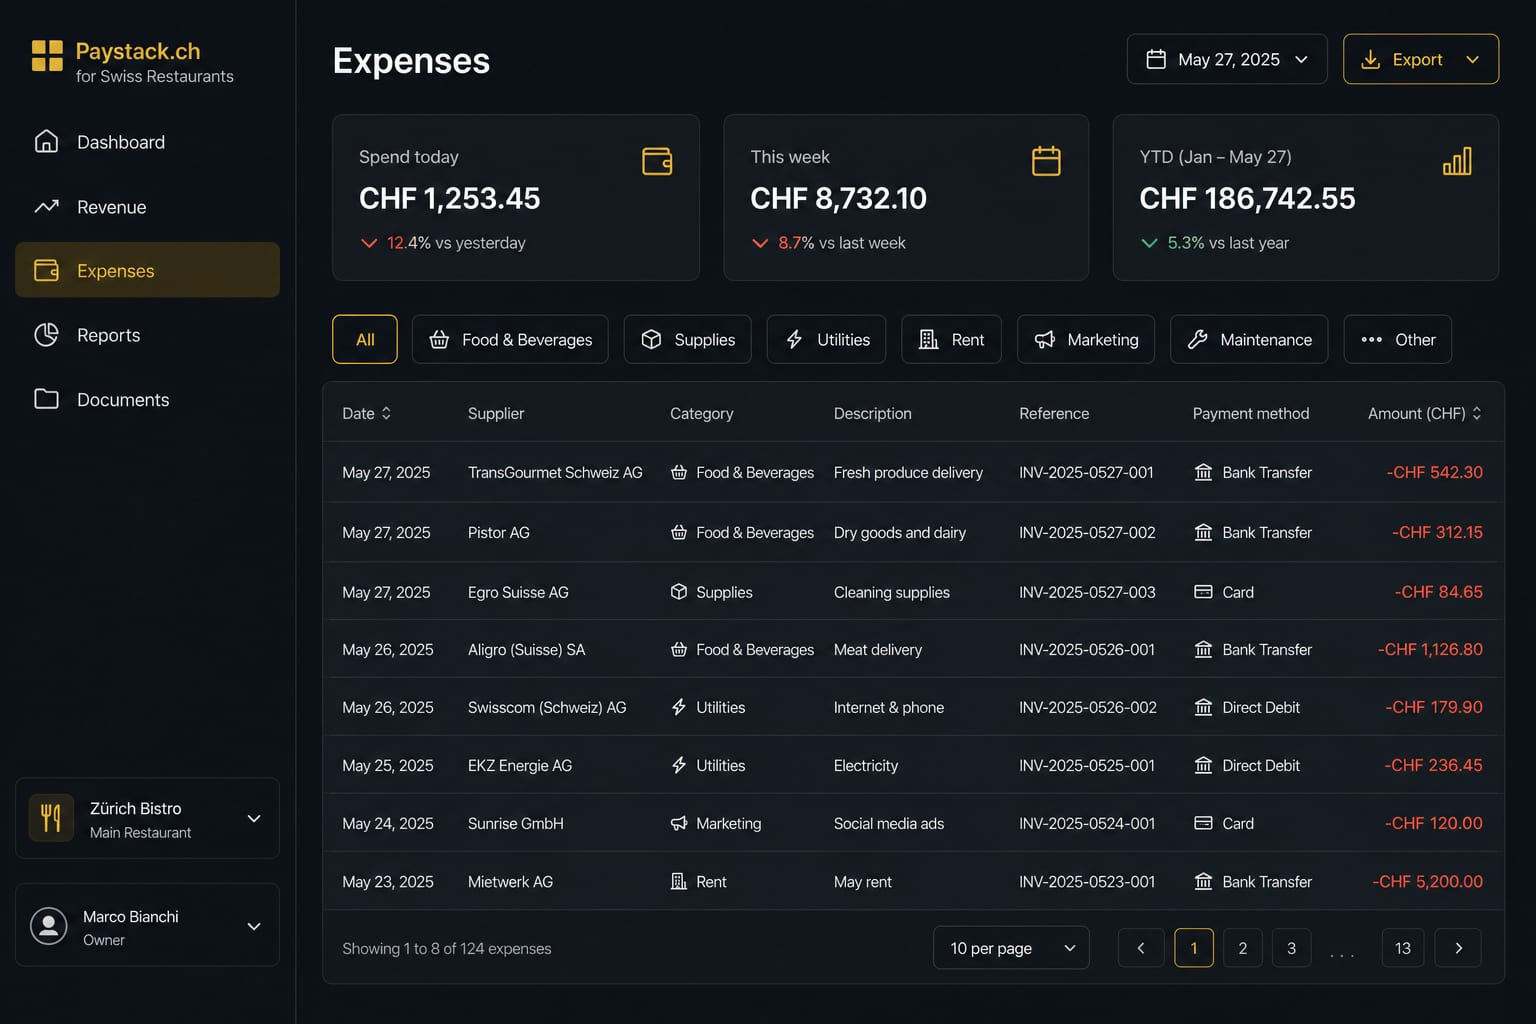
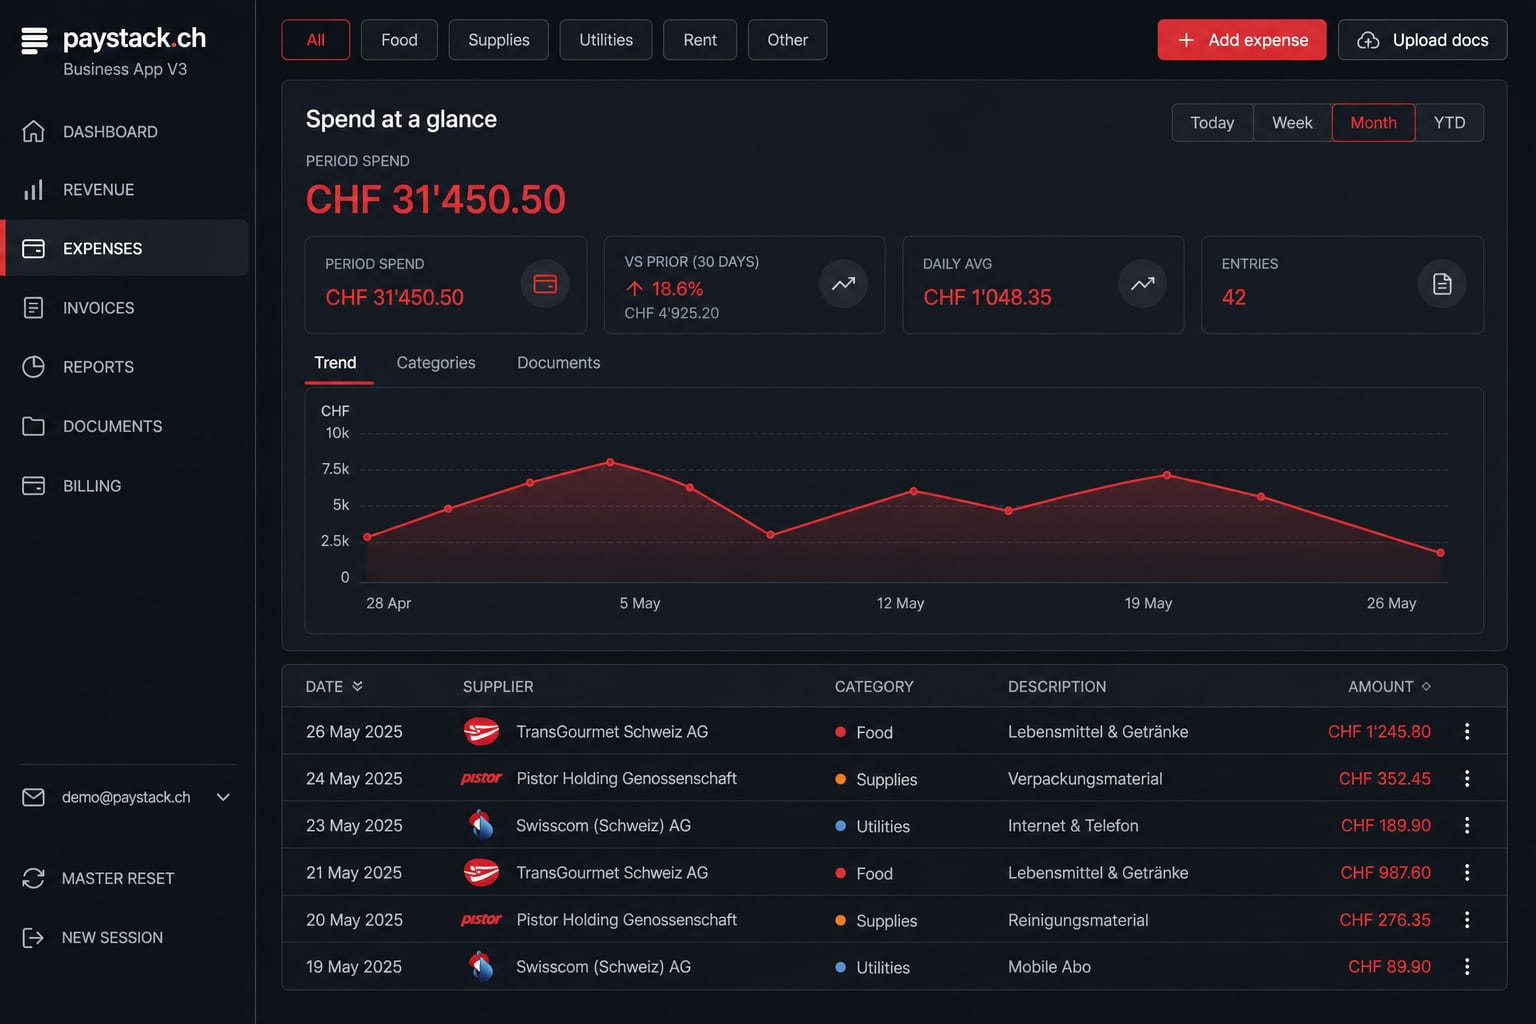
Refresh landing screenshots to match Business App V3.
Replace outdated dashboard/expenses/revenue/reports/documents marketing images with V3-aligned product shots used across hero, platform tour, modules, and how-it-works.

diff --git a/client/src/const/landingScreens.ts b/client/src/const/landingScreens.ts
@@ -1,13 +1,7 @@
 /**
- * Landing / marketing screenshots. Add files under `client/public/landing/`:
- * - screenshot-dashboard.png
- * - screenshot-reports.png
- * - screenshot-revenue-pos.png
- * - screenshot-expenses.jpg
- * - screenshot-documents.png
- * - screenshot-personal.jpg
- *
- * If a file is missing, `LandingScreenshot` falls back to prior bundled paths when deployed.
+ * Landing / marketing screenshots under `client/public/landing/`.
+ * V3 business app imagery (Dashboard, Revenue, Expenses, Reports, Documents).
+ * Cache-bust by changing filenames when replacing shots.
  */
 export type LandingScreenKey =
   | "dashboard"
@@ -22,27 +16,27 @@ export const LANDING_SCREENSHOTS: Record<
   { primary: string; fallback: string }
 > = {
   dashboard: {
-    primary: "/landing/screenshot-dashboard.png",
-    fallback: "/manus-storage/Image28.04.2026at01.15_01_307b72f8.png",
+    primary: "/landing/screenshot-dashboard.jpg",
+    fallback: "/landing/screenshot-dashboard.jpg",
   },
   reports: {
-    primary: "/landing/screenshot-reports.png",
-    fallback: "/manus-storage/Image28.04.2026at01.15(1)_1cbde1c4.png",
+    primary: "/landing/screenshot-reports.jpg",
+    fallback: "/landing/screenshot-dashboard.jpg",
   },
   revenue: {
-    primary: "/landing/screenshot-revenue-pos.png",
-    fallback: "/manus-storage/Image28.04.2026at01.15(2)_7be623da.png",
+    primary: "/landing/screenshot-revenue-pos.jpg",
+    fallback: "/landing/screenshot-dashboard.jpg",
   },
   expenses: {
     primary: "/landing/screenshot-expenses.jpg",
-    fallback: "/landing/screenshot-reports.png",
+    fallback: "/landing/screenshot-revenue-pos.jpg",
   },
   documents: {
-    primary: "/landing/screenshot-documents.png",
-    fallback: "/manus-storage/Image28.04.2026at01.15_b2574f4b.png",
+    primary: "/landing/screenshot-documents.jpg",
+    fallback: "/landing/screenshot-dashboard.jpg",
   },
   personal: {
     primary: "/landing/screenshot-personal.jpg",
-    fallback: "/landing/screenshot-dashboard.png",
+    fallback: "/landing/screenshot-dashboard.jpg",
   },
 };
